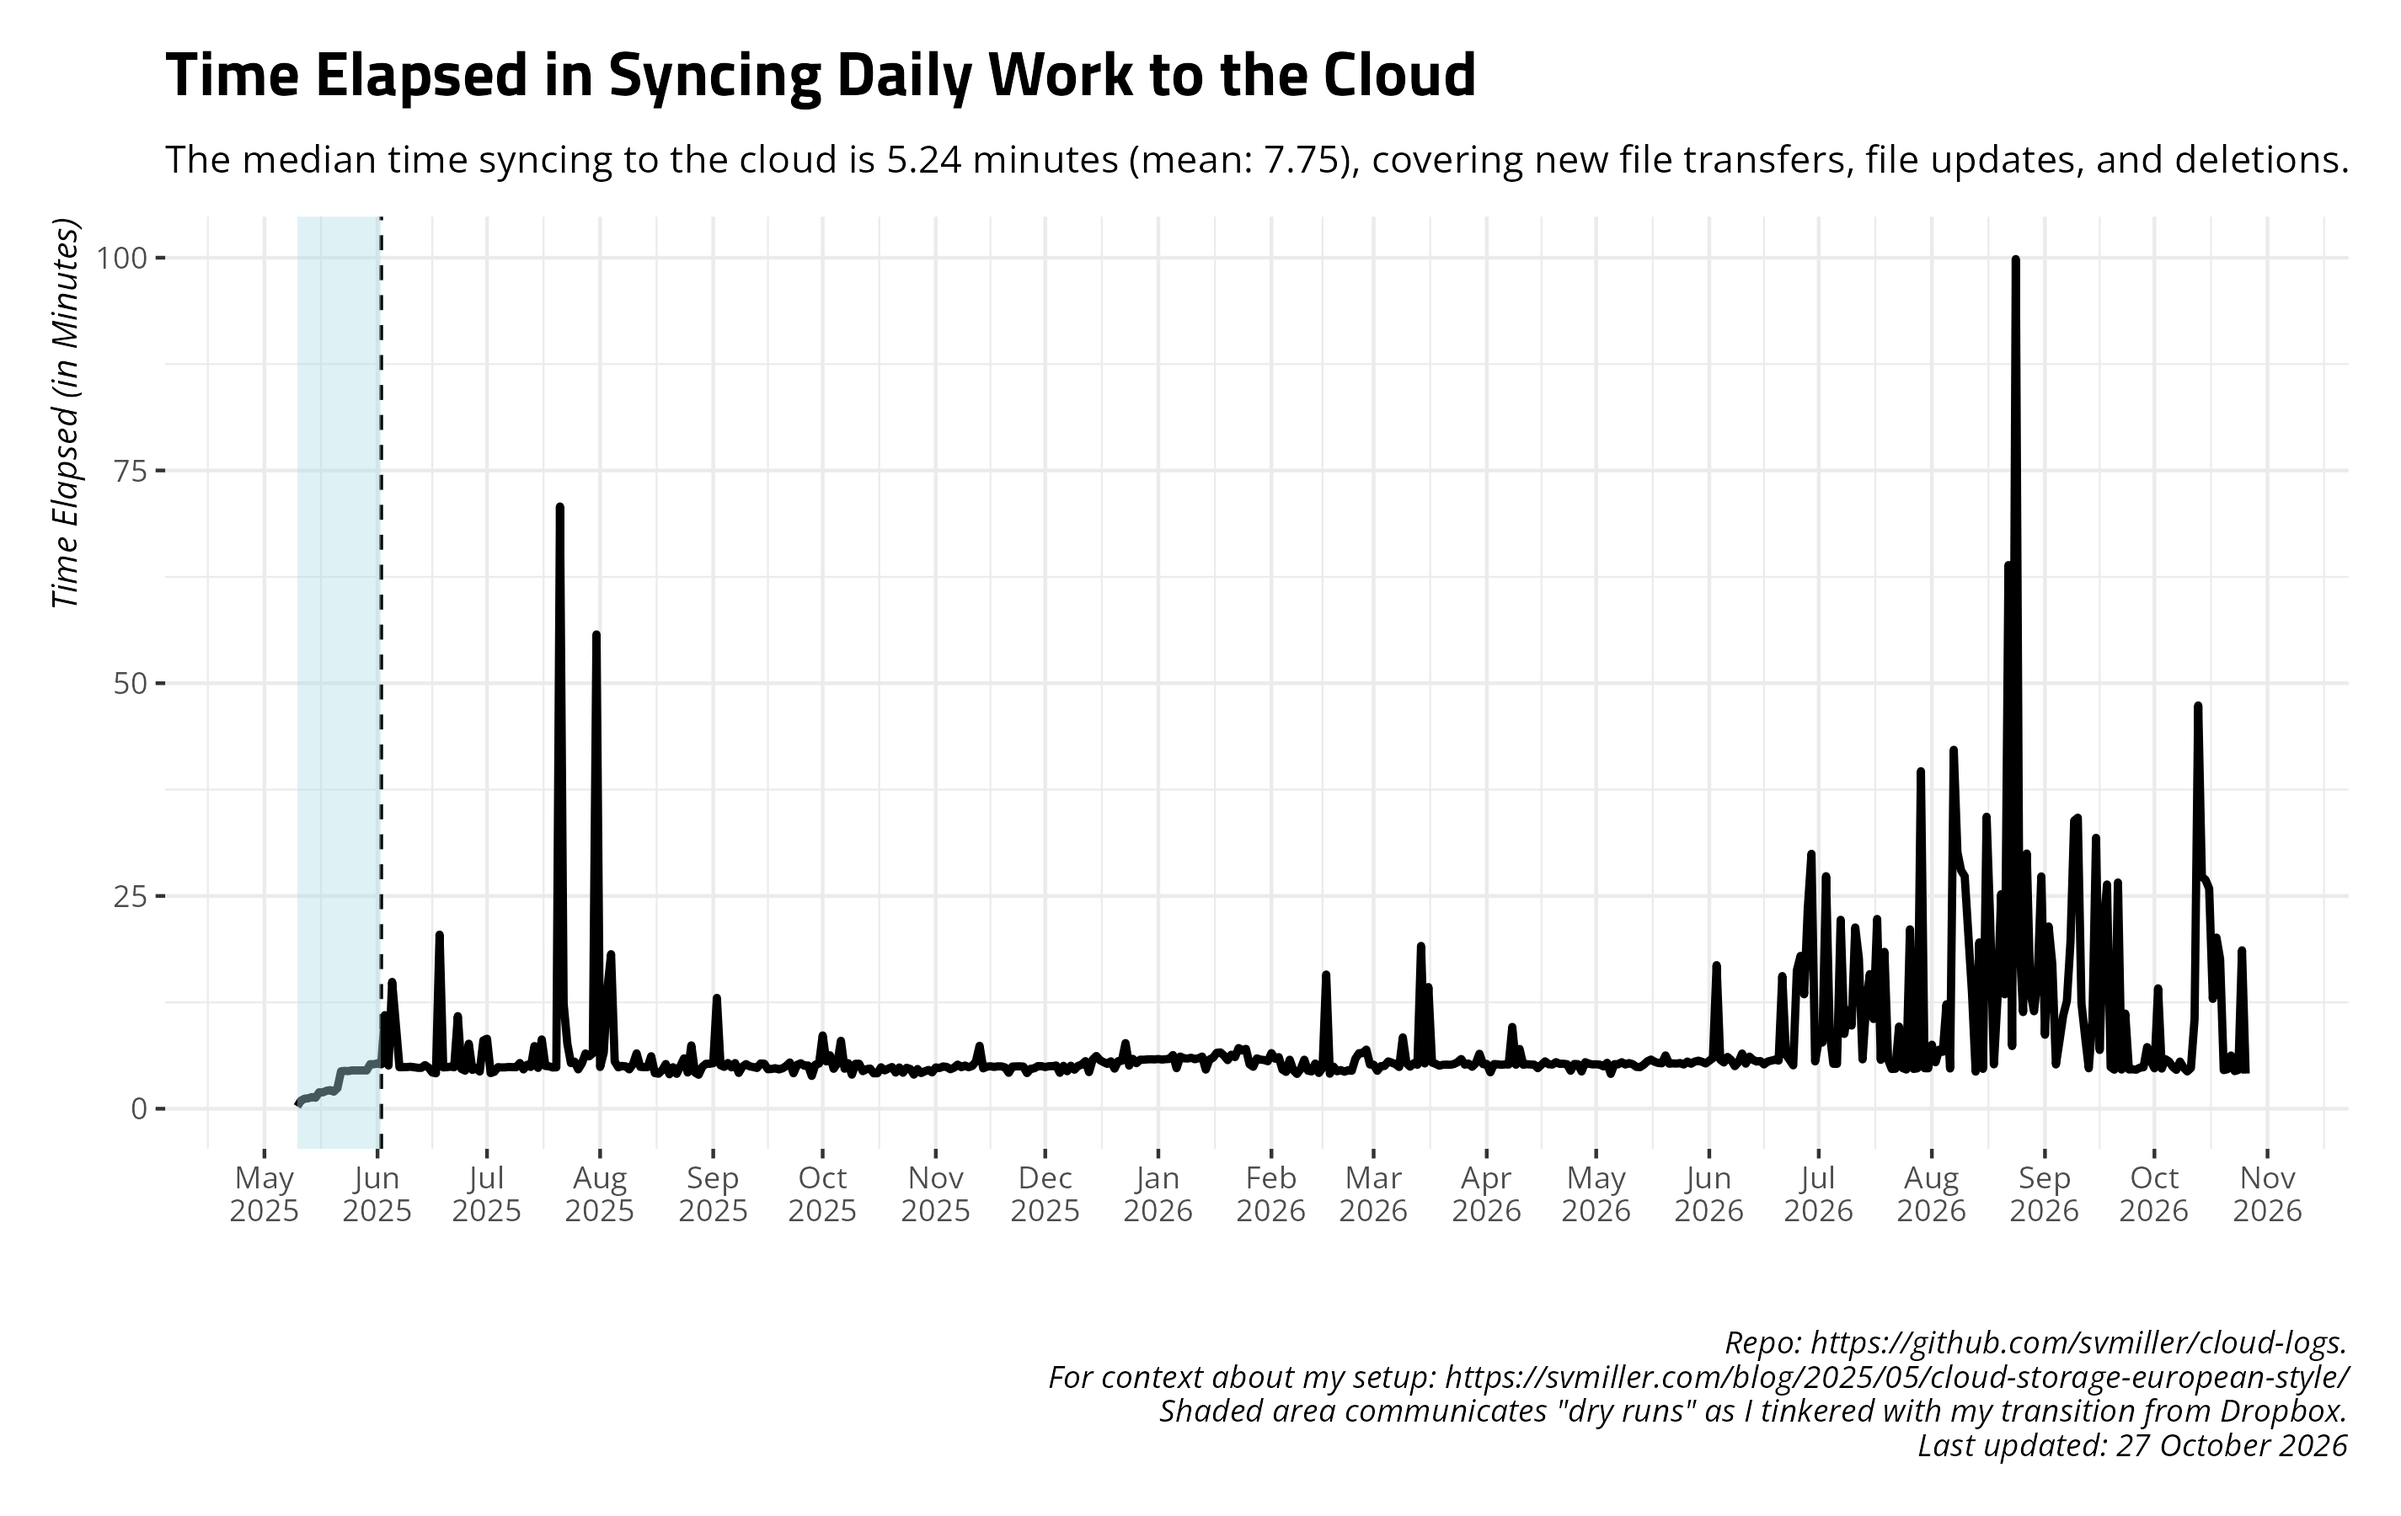
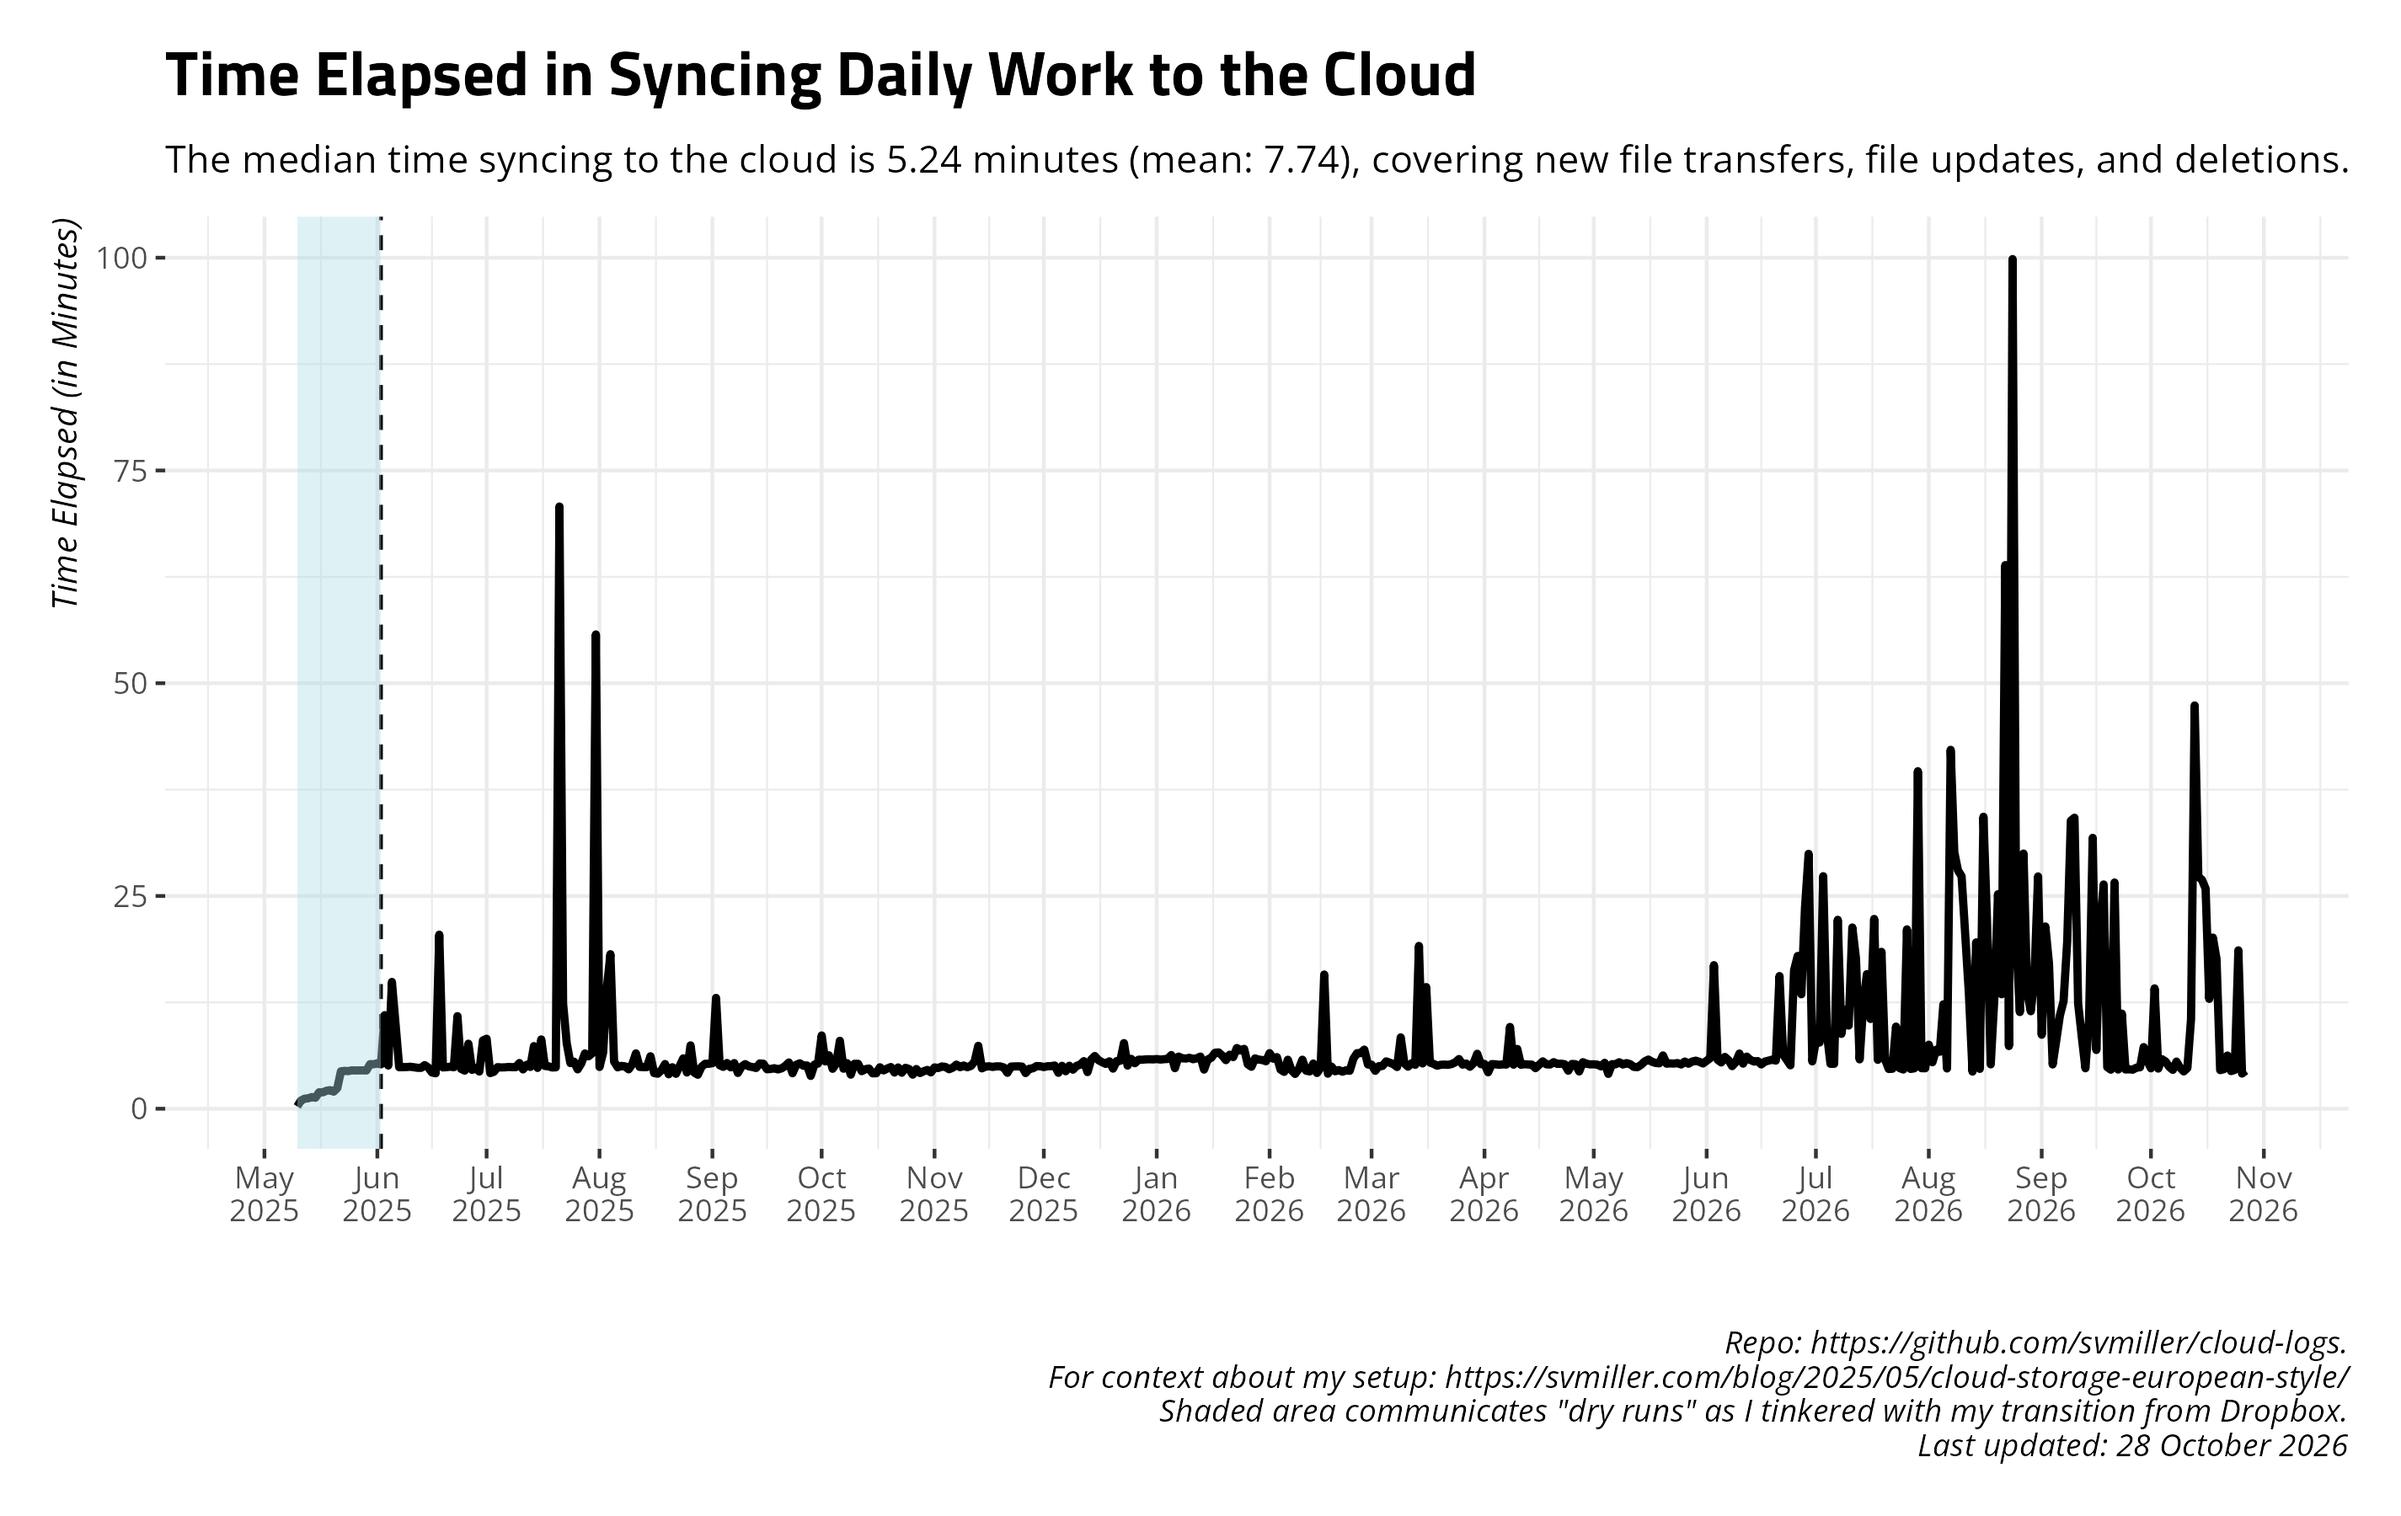
Date: 2026-10-28 09:00:40. Hi mom!

diff --git a/README.md b/README.md
@@ -27,17 +27,17 @@ and uploads to Github.
     #> # A tibble: 14 × 4
     #>    date       ftransfer stransfer   elapsed 
     #>    <date>         <dbl> <chr>       <chr>   
-    #>  1 2026-10-13         8 124.477 MiB 47m23.4s
-    #>  2 2026-10-14         0 <NA>        27m16.0s
-    #>  3 2026-10-15         9 5.339 MiB   26m53.8s
-    #>  4 2026-10-16       147 17.869 MiB  25m51.8s
-    #>  5 2026-10-17         0 <NA>        12m54.4s
-    #>  6 2026-10-18         0 <NA>        20m6.6s 
-    #>  7 2026-10-19       108 20.905 MiB  17m36.0s
-    #>  8 2026-10-20       396 2.903 MiB   4m32.2s 
-    #>  9 2026-10-21        32 1.412 MiB   4m38.6s 
-    #> 10 2026-10-22        78 3.980 MiB   6m15.1s 
-    #> 11 2026-10-23       149 1.495 MiB   4m25.2s 
-    #> 12 2026-10-24        23 460.326 KiB 4m33.8s 
-    #> 13 2026-10-25        21 119.845 KiB 18m36.7s
-    #> 14 2026-10-26        94 9.100 MiB   4m7.9s
+    #>  1 2026-10-14         0 <NA>        27m16.0s
+    #>  2 2026-10-15         9 5.339 MiB   26m53.8s
+    #>  3 2026-10-16       147 17.869 MiB  25m51.8s
+    #>  4 2026-10-17         0 <NA>        12m54.4s
+    #>  5 2026-10-18         0 <NA>        20m6.6s 
+    #>  6 2026-10-19       108 20.905 MiB  17m36.0s
+    #>  7 2026-10-20       396 2.903 MiB   4m32.2s 
+    #>  8 2026-10-21        32 1.412 MiB   4m38.6s 
+    #>  9 2026-10-22        78 3.980 MiB   6m15.1s 
+    #> 10 2026-10-23       149 1.495 MiB   4m25.2s 
+    #> 11 2026-10-24        23 460.326 KiB 4m33.8s 
+    #> 12 2026-10-25        21 119.845 KiB 18m36.7s
+    #> 13 2026-10-26        94 9.100 MiB   4m7.9s  
+    #> 14 2026-10-27         2 3.880 MiB   4m28.2s
